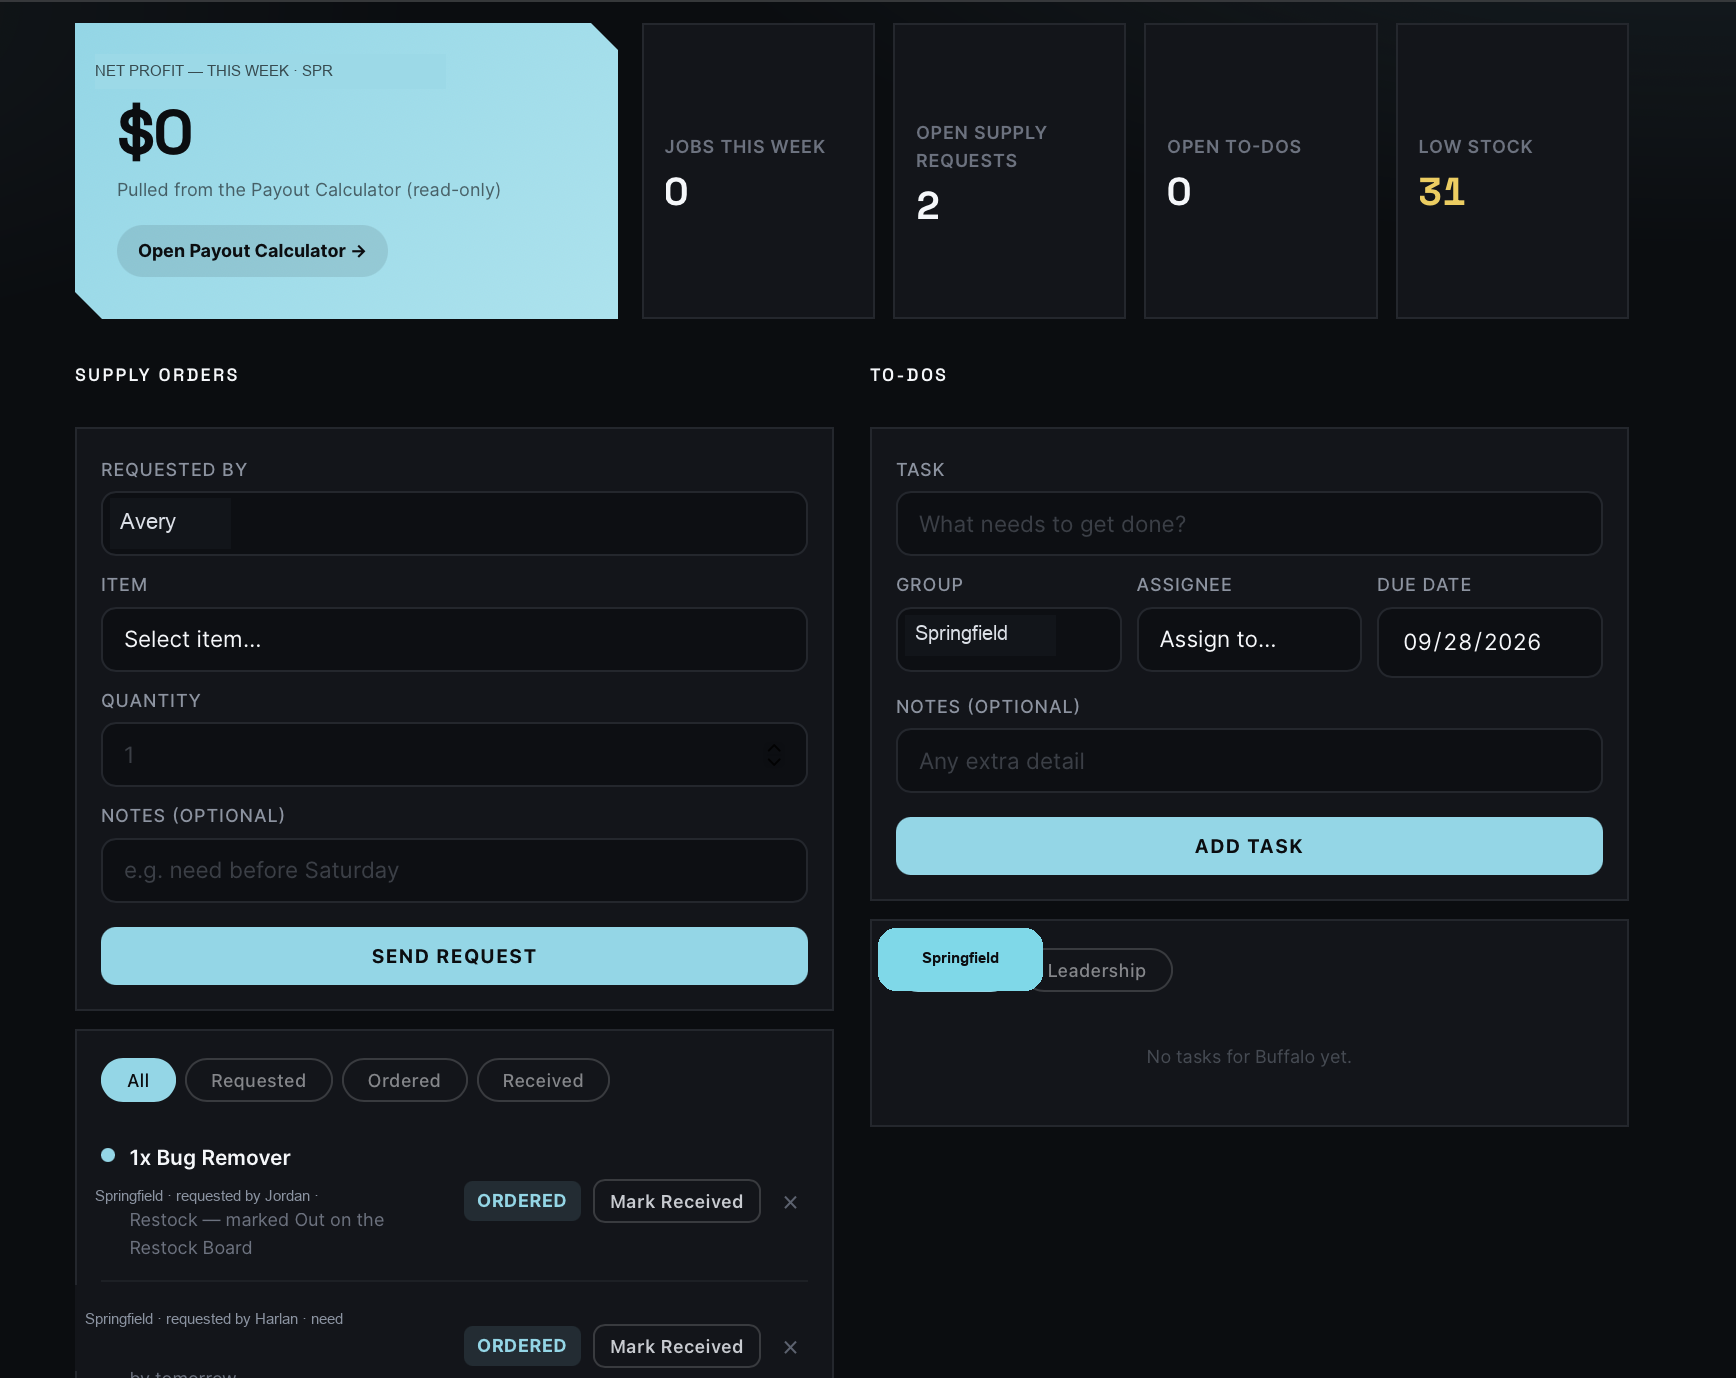
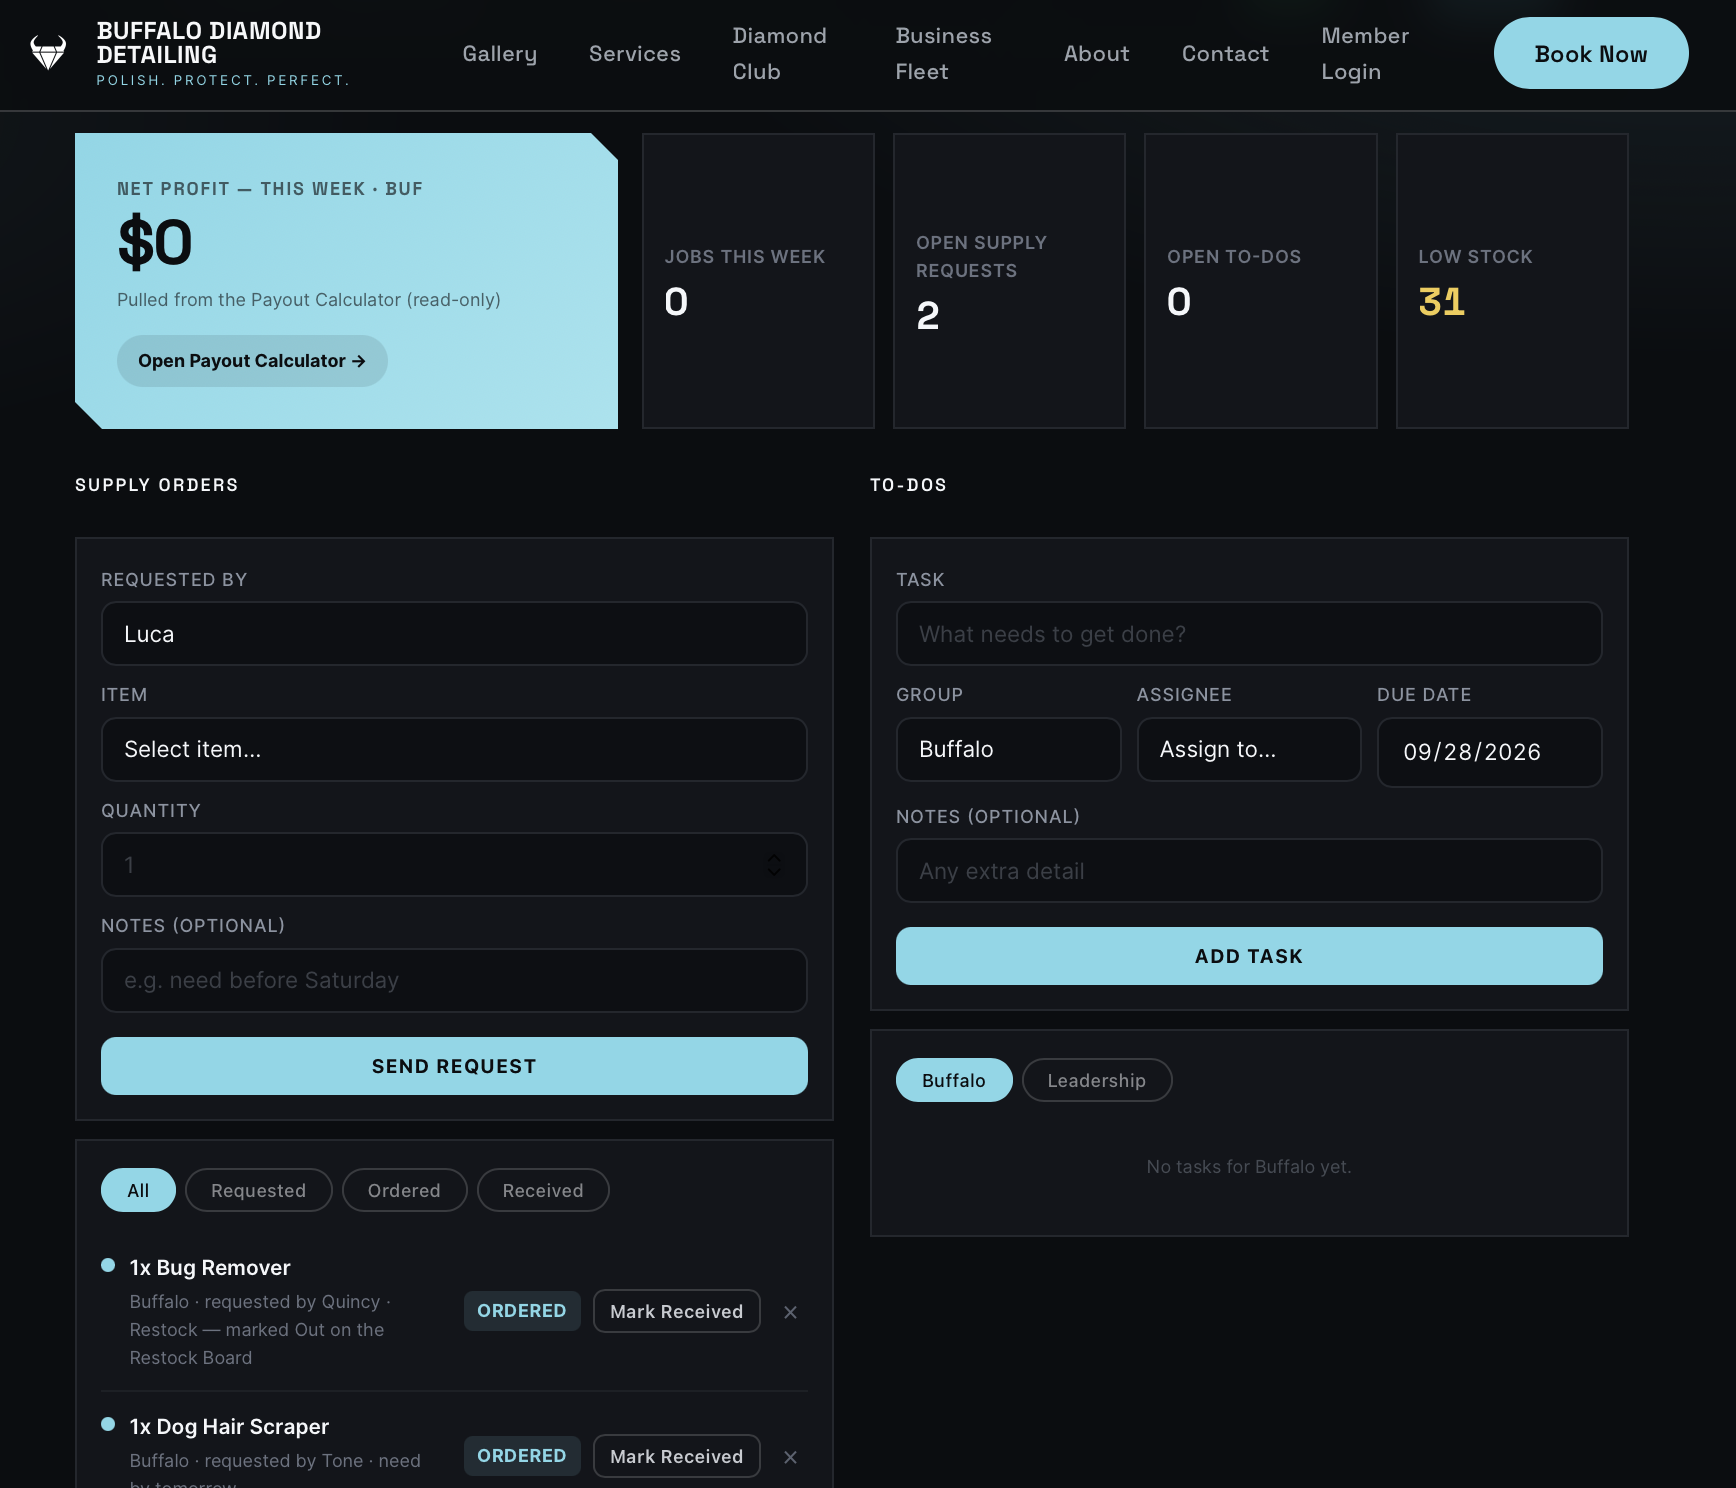
Replace redacted screenshots with original, unedited ones
Per request: the code stays sanitized (placeholder business name, staff
names, city names), but these screenshots show the real live tool as-is,
including the real business name and team.

diff --git a/README.md b/README.md
@@ -30,9 +30,9 @@ summary automatically.
 
 ## Screenshots
 
-> ⚠ **All data shown below is fictional** — sample/placeholder values for this portfolio version,
-> not real production numbers, inventory, or requests. Business name, location, and staff names in
-> these screenshots are the same fictional placeholders used throughout the code.
+> These are real screenshots of the live tool in production, including the real business name and
+> team — unlike the code above, they haven't been sanitized. Numbers shown (net profit, stock
+> counts, etc.) reflect whatever the tool's actual state was at the time of capture.
 
 **Payout Calculator** — job entry, live splits, and the payout tracker:
 ![Payout Calculator screenshot](screenshots/payout-calculator.png)
